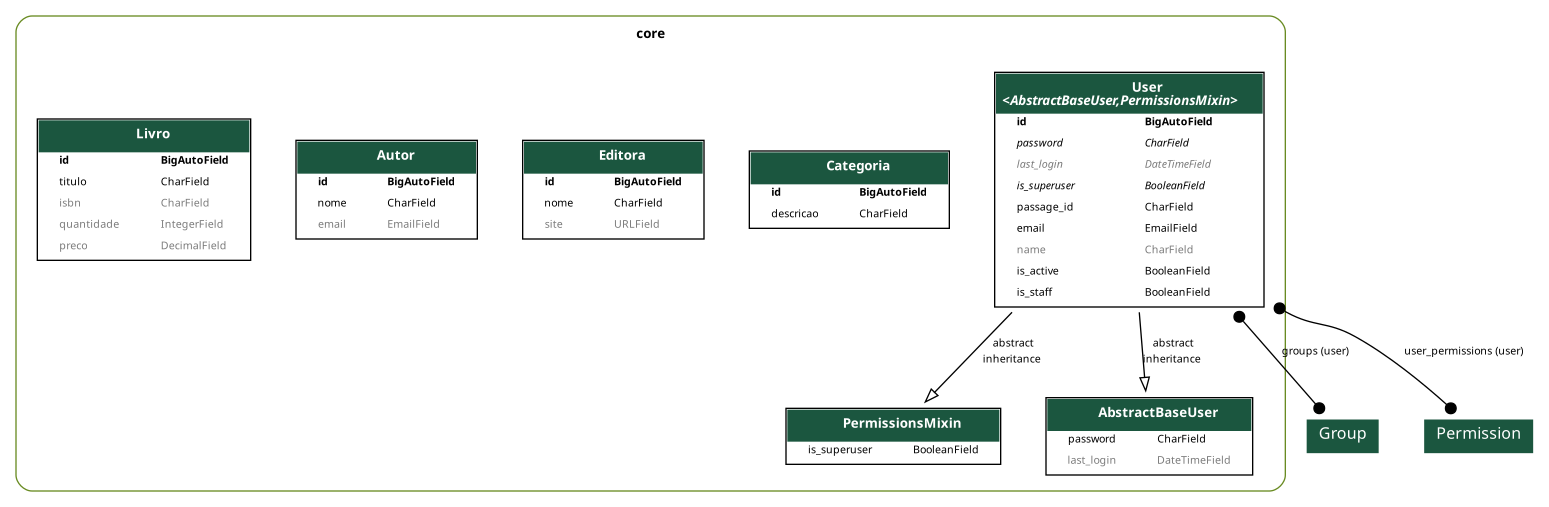
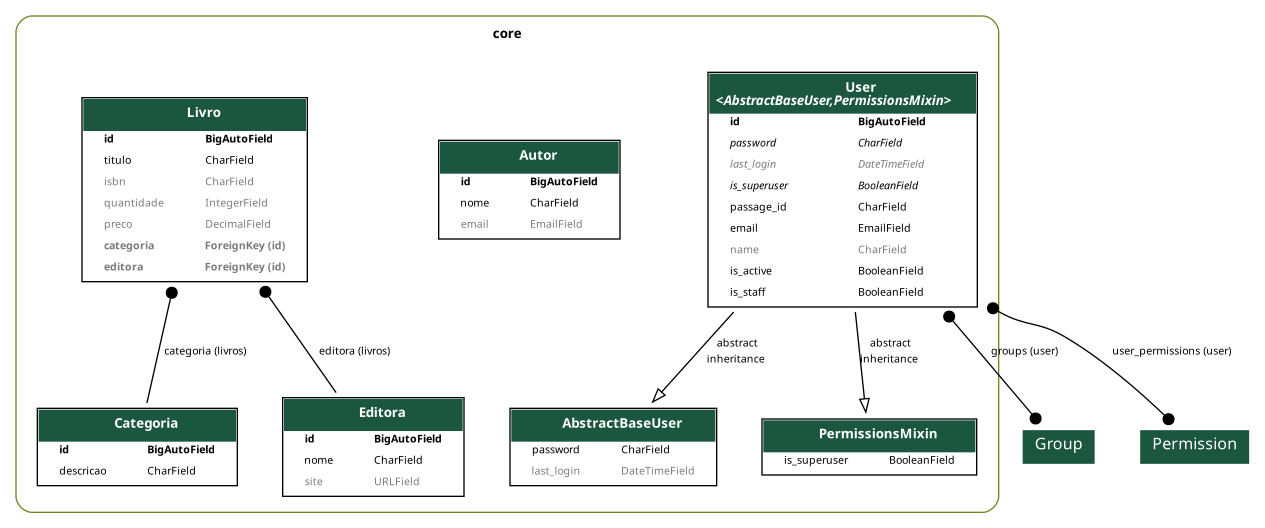
feat: inserindo relacionamentos entre livro, categoria e editora

diff --git a/dev-web-II/template_django_pdm/core/migrations/0008_livro_categoria_livro_editora.py b/dev-web-II/template_django_pdm/core/migrations/0008_livro_categoria_livro_editora.py
@@ -1,0 +1,36 @@
+# Generated by Django 5.1.1 on 2024-10-30 15:32
+
+import django.db.models.deletion
+from django.db import migrations, models
+
+
+class Migration(migrations.Migration):
+
+    dependencies = [
+        ("core", "0007_livro"),
+    ]
+
+    operations = [
+        migrations.AddField(
+            model_name="livro",
+            name="categoria",
+            field=models.ForeignKey(
+                blank=True,
+                null=True,
+                on_delete=django.db.models.deletion.PROTECT,
+                related_name="livros",
+                to="core.categoria",
+            ),
+        ),
+        migrations.AddField(
+            model_name="livro",
+            name="editora",
+            field=models.ForeignKey(
+                blank=True,
+                null=True,
+                on_delete=django.db.models.deletion.PROTECT,
+                related_name="livros",
+                to="core.editora",
+            ),
+        ),
+    ]

diff --git a/dev-web-II/template_django_pdm/core/models/livro.py b/dev-web-II/template_django_pdm/core/models/livro.py
@@ -1,4 +1,6 @@
 from django.db import models
+from .categoria import Categoria
+from .editora import Editora
 
 
 class Livro(models.Model):
@@ -6,6 +8,8 @@ class Livro(models.Model):
     isbn = models.CharField(max_length=32, null=True, blank=True)
     quantidade = models.IntegerField(default=0, null=True, blank=True)
     preco = models.DecimalField(max_digits=7, decimal_places=2, default=0, null=True, blank=True)
+    categoria = models.ForeignKey(Categoria, on_delete=models.PROTECT, related_name="livros", null=True, blank=True)
+    editora = models.ForeignKey(Editora, on_delete=models.PROTECT, related_name="livros", null=True, blank=True)
 
     def __str__(self):
         return f"({self.id}) {self.titulo} ({self.quantidade})"
